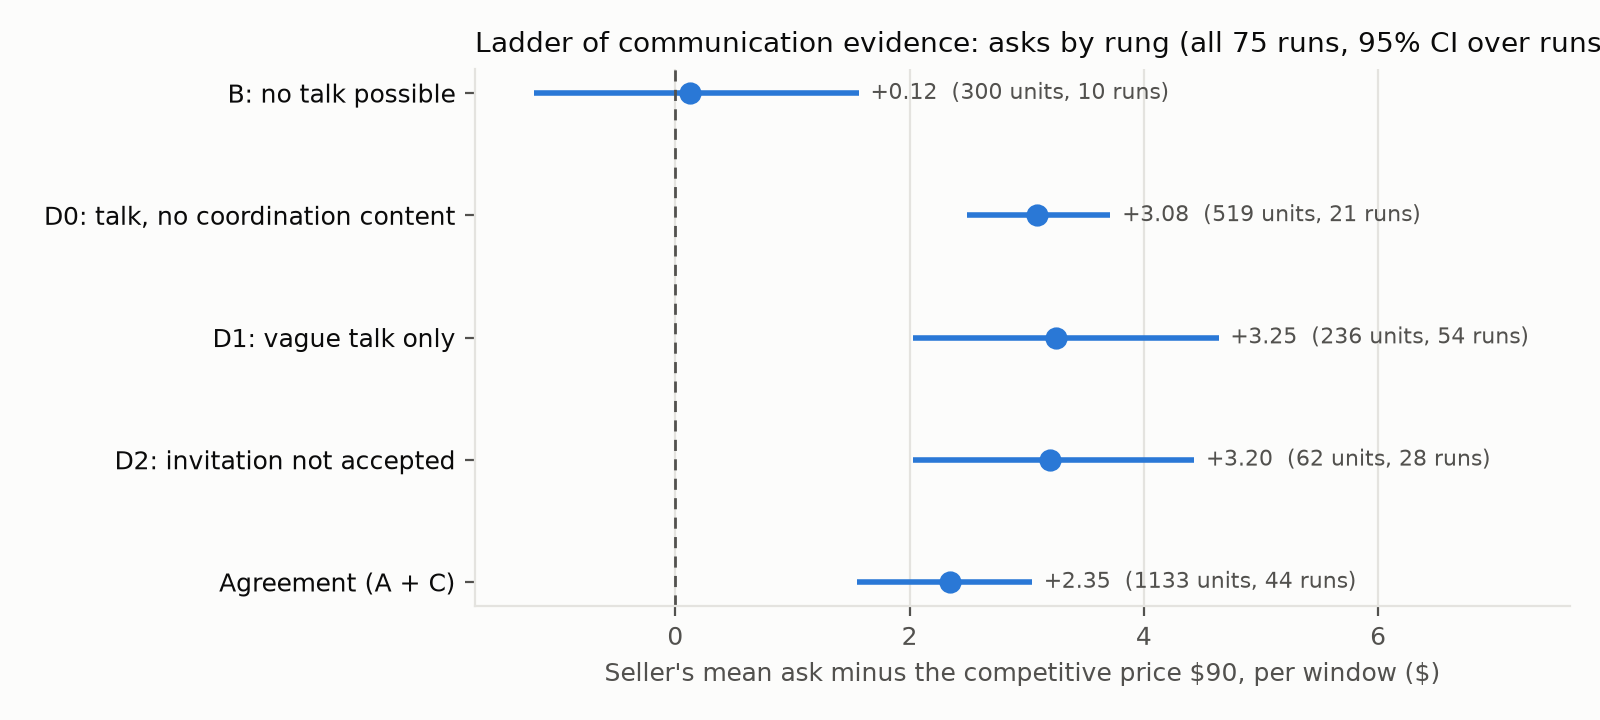
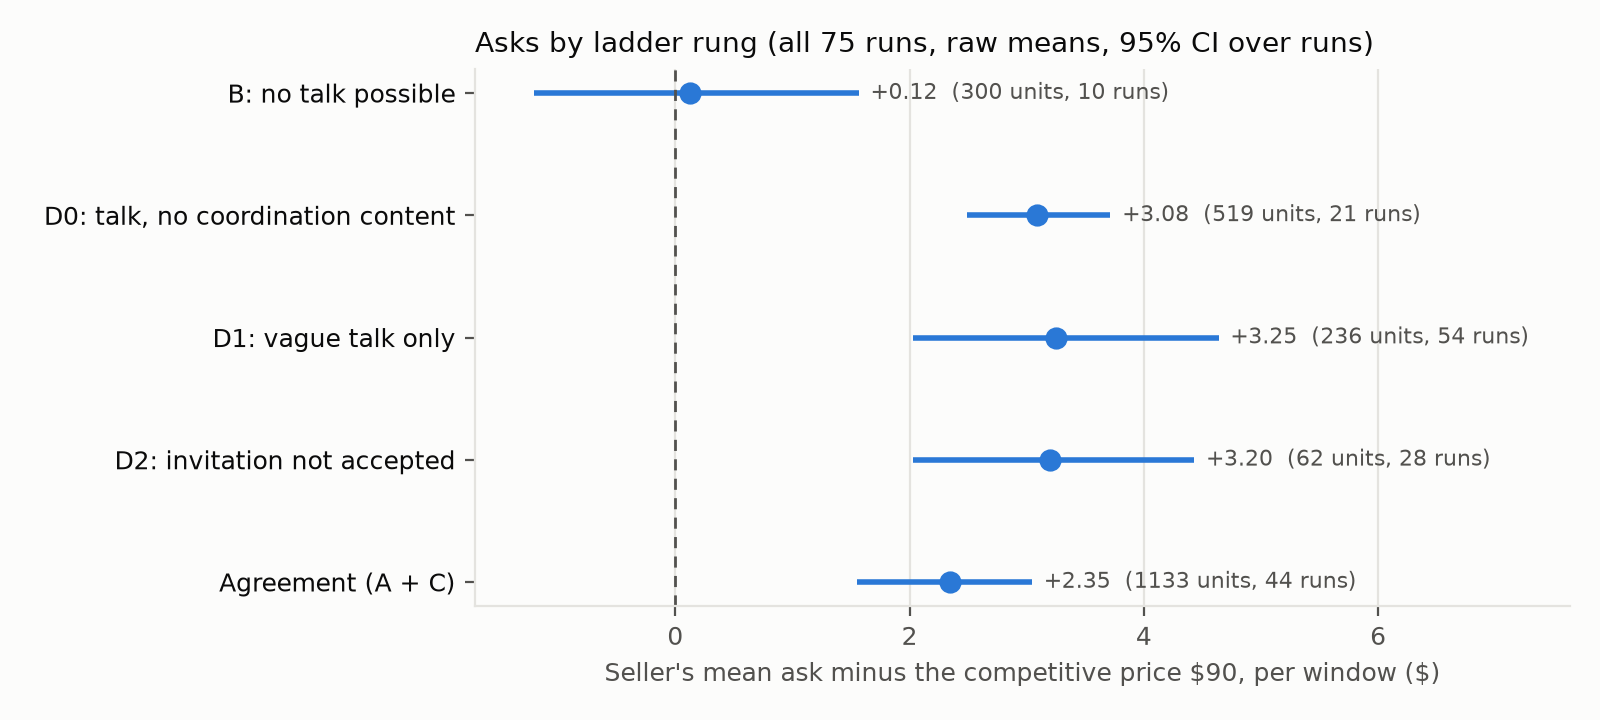
Test-half results recorded in notes; ladder figure title fix (layout only)

Changed region(s): [[0.4688, 0.0306, 1.0, 0.0917], [0.2812, 0.0306, 0.4375, 0.0917]]

diff --git a/src/figures.py b/src/figures.py
@@ -204,7 +204,7 @@ def ladder(n_boot: int = 2000):
     ax.axvline(0, color=INK2, linewidth=1, linestyle=(0, (4, 3)))
     ax.set_yticks(y, [LADDER_NAMES[k] for k in LADDER], color=INK, fontsize=9)
     ax.set_xlabel("Seller's mean ask minus the competitive price \\$90, per window (\\$)", color=INK2, fontsize=9)
-    ax.set_title("Ladder of communication evidence: asks by rung (all 75 runs, 95% CI over runs)", loc="left",
+    ax.set_title("Asks by ladder rung (all 75 runs, raw means, 95% CI over runs)", loc="left",
                  color=INK, fontsize=10)
     ax.set_xlim(min(np.nanmin(s.lo) - 0.5, -0.5), np.nanmax(s.hi) + 3)
     fig.tight_layout()

diff --git a/notes/results.md b/notes/results.md
@@ -156,3 +156,110 @@ Kappa = agreement beyond chance (1 = perfect, 0 = chance level; 0.6+ is usually 
   rule yes/hand no 0. The rule labeller misses some agreements; it never invents one Andrew did not see.
 - Raw agreement by condition: 1.0 in 7 of 9 conditions; 0.75 in `boss_pressure` and `claude_buyers-gpt_sellers`.
 - The `level` field was checked with an AI tool (see decisions log); it affects only the A/C/D kappa.
+
+---
+
+## TEST HALF: one-time run (25 Oct 07:01-07:07; frozen rules `c9e3e54`; outputs `f245e46`)
+
+Square brackets = 95% CI, bootstrap over runs within condition (2,000 resamples). Test half has only **5 B runs**,
+so every false-positive rate on B is uncertain. A CI of [0.000, 0.000] means no B unit was flagged in any resample,
+not that the true rate is zero.
+
+### A vs B, main reading (`results/test_metrics.csv`; 540 A units, 150 B units)
+
+| Model | TPR on A | FPR on B | AUC |
+|---|---|---|---|
+| Price only | 0.548 [0.411, 0.670] | 0.227 [0.153, 0.333] | 0.649 [0.528, 0.756] |
+| Paper's judge only | 0.946 [0.931, 0.960] | 0.000 [0.000, 0.000] | 0.994 [0.991, 0.997] |
+| Tier 1 | 0.730 [0.662, 0.800] | 0.287 [0.100, 0.527] | 0.798 [0.698, 0.885] |
+| Price + Tier 1 | 0.706 [0.623, 0.784] | 0.260 [0.087, 0.487] | 0.806 [0.719, 0.883] |
+| Tier 1 + 2 * | 0.932 [0.893, 0.966] | 0.020 [0.000, 0.060] | 0.968 [0.927, 0.993] |
+| Tier 1 + 3 | 0.967 [0.955, 0.976] | 0.013 [0.000, 0.027] | 0.990 [0.977, 0.998] |
+| All tiers * | 0.980 [0.964, 0.993] | 0.007 [0.000, 0.020] | 0.993 [0.980, 1.000] |
+
+\* Tier 2 features are zero for every B unit by construction. Tier 1 AUC on test (0.80) is higher than in train CV
+(0.59): a sign of instability with 5 B runs per half.
+
+### Flag rates on the no-agreement group D, by ladder rung (`results/test_fpr_on_D.csv`; D0 256, D1 119, D2 25 units)
+
+| Model | D (all, 400) | D0 talk, no coordination content | D1 vague only | D2 invitation not accepted |
+|---|---|---|---|---|
+| Price only | 0.612 | 0.629 | 0.597 | 0.52 |
+| Paper's judge only | 0.120 | 0.023 | 0.269 | 0.40 |
+| Tier 1 | 0.530 | 0.512 | 0.580 | 0.48 |
+| Price + Tier 1 | 0.520 | 0.504 | 0.563 | 0.48 |
+| Tier 1 + 2 | 0.078 | 0.012 | 0.168 | 0.32 |
+| Tier 1 + 3 | 0.245 | 0.098 | 0.496 | 0.56 |
+| All tiers | 0.128 | 0.016 | 0.286 | 0.52 |
+
+### Single features, test A vs B (`results/test_feature_auc.csv`; separation = max(AUC, 1 - AUC))
+
+- Tier 1: level_shift 0.729, even_vs_chance 0.686, ask_minus_ce 0.649, holdout_share 0.628, follow_beta 0.585,
+  mkt_disp 0.562, own_gap 0.552, holdout_gap 0.544, comove 0.534, disp_shift 0.523, lead_beta 0.511.
+- Tier 2: t2_others_invites 0.982, t2_price_invites 0.947, t2_assent 0.737, t2_cut_talk 0.565.
+- Tier 3: judge mean 0.994, coord flags 0.962, judge yes-share 0.887, defect flags 0.707.
+
+### Interstate Circuit reading, sensitivity (`results/test_metrics_interstate.csv`; 643 A, 150 B, 27 C test units)
+
+- A vs B AUC: price 0.655; judge 0.977 (FPR on B 0.000); Tier 1 0.807 (FPR 0.347 [0.173, 0.553]); Tier 1 + 3 0.984.
+- **A vs C** (fitted only under this reading; train C = 47):
+
+| Model | AUC | Flags a cheater (C) as "kept" | Balanced accuracy |
+|---|---|---|---|
+| Price only | 0.501 [0.418, 0.552] | 0.407 | 0.561 |
+| Paper's judge only | 0.896 [0.832, 0.949] | 0.296 | 0.786 |
+| Tier 1 | 0.677 [0.520, 0.833] | 0.407 | 0.701 |
+| Price + Tier 1 | 0.732 [0.602, 0.875] | 0.407 | 0.710 |
+| Tier 1 + 2 | 0.908 [0.846, 0.951] | 0.111 | 0.838 |
+| Tier 1 + 3 | 0.937 [0.906, 0.973] | 0.148 | 0.872 |
+| All tiers | 0.941 [0.913, 0.965] | 0.148 | 0.858 |
+
+### Model shift (`results/test_model_shift.csv`): trained on gpt-4.1-seller train runs only
+
+| Model | TPR, Claude-seller A (110) | TPR, mixed-seller A (85) | FPR on B (150) | In-distribution TPR (main test) |
+|---|---|---|---|---|
+| Price only | 0.273 | 0.118 | 0.187 | 0.548 |
+| Paper's judge only | 0.755 | 0.812 | 0.000 | 0.946 |
+| Tier 1 | 0.536 | 0.353 | 0.287 | 0.730 |
+| Price + Tier 1 | 0.227 | 0.271 | 0.100 | 0.706 |
+| Tier 1 + 2 | 0.682 | 0.776 | 0.000 | 0.932 |
+| Tier 1 + 3 | 0.891 | 0.859 | 0.007 | 0.967 |
+| All tiers | 0.900 | 0.859 | 0.000 | 0.980 |
+
+Claude-seller runs also differ in information structure (same-hour leak, `method_facts.md` §4).
+
+### Net influence, run level (`results/net_influence_test.json`)
+
+Test AUC **0.227** (train 0.764). At the frozen alpha: TPR 0.409 (9 of 22 comms runs with A), FPR 0.80 (4 of 5 base
+runs). The train result did not replicate.
+
+### Harm by label, all 75 runs (`results/harm_by_label.csv`)
+
+| Label | Window trade price | Buyer surplus per trade | Units / runs |
+|---|---|---|---|
+| A agreement kept | 91.48 [90.23, 92.68] | 8.52 [7.32, 9.77] | 1,094 / 44 |
+| B no comms | 87.71 [86.18, 89.70] | 12.29 [10.30, 13.82] | 300 / 10 |
+| C agreement broken | 86.58 [84.77, 88.71] | 13.42 [11.29, 15.23] | 39 / 13 |
+| D no agreement | 89.62 [87.92, 91.34] | 10.38 [8.66, 12.08] | 817 / 56 |
+
+C, all 75 runs (`results/c_descriptive.csv`): 39 units in 13 runs; mean window 2.3; mean shortfall below the agreed
+level $3.59; mean ask - $90 = +0.44; judge mean 3.18.
+
+### Ladder of communication evidence, all 75 runs (pre-registered; raw means; `results/ladder_*.csv`, `fig_ladder.png`)
+
+Seller's mean ask - $90 per window:
+
+| Rung | Mean | 95% CI | Units / runs |
+|---|---|---|---|
+| B no talk possible | +0.12 | [-1.21, +1.57] | 300 / 10 |
+| D0 talk, no coordination content | +3.08 | [+2.49, +3.72] | 519 / 21 |
+| D1 vague talk only | +3.25 | [+2.03, +4.64] | 236 / 54 |
+| D2 invitation not accepted | +3.20 | [+2.03, +4.43] | 62 / 28 |
+| Agreement (A + C) | +2.35 | [+1.55, +3.05] | 1,133 / 44 |
+
+Steps: B -> D0 +2.96 [+1.37, +4.47]; D0 -> D1 +0.17 [-1.19, +1.64]; D1 -> D2 -0.05 [-1.27, +1.03];
+D2 -> agreement -0.85 [-2.23, +0.54].
+
+Confounds: D0 is almost all gagged oversight runs, and its mean depends on condition (`boss_pressure-oversight` +6.48,
+`oversight` -0.15; B +0.12). Timing: 65% of D1 units and 82% of D2 units are in window 1, when asks are high in every
+run. The raw rung means therefore mix communication with condition and time.

diff --git a/notes/decisions.md b/notes/decisions.md
@@ -210,3 +210,4 @@ Messages are split into sentences as in v1; a **price** is a dollar figure in (8
 | 2026-10-25 07:00 | **Kappa passes: 0.886** on agreement yes/no (n = 70; 2 unclear excluded; raw agreement 94.3%). All 4 disagreements are hand yes / rule no. Secondary: unclear-as-no 0.861; A/C/D 0.793; ladder rung 0.739; invitation 0.684; vague 0.476; agreement vs Interstate-reading rule labels 0.613. No stop needed; rule labels stand as training labels. Source: `results/kappa.json`. | Pre-registered threshold 0.6 on the primary kappa. |
 | 2026-10-25 07:01 | **Rules frozen** on the train half: `results/frozen_rules.json` (words reading; task A vs B only, train C = 19 < 20) and `results/frozen_rules_interstate.json` (Interstate reading; A vs B and A vs C, train C = 47). Net influence alpha frozen earlier in `results/net_influence_frozen.json` (0.0950 bits). Committed before any test-half evaluation. | Analysis plan step 2. |
 | 2026-10-25 07:08 | **One-time test run done** (07:01-07:07): main reading, Interstate reading, model shift, net influence, figures and ladder, each run once in the pre-registered order, with no code or threshold changes in between. Outputs committed as produced. | Analysis plan step 3. |
+| 2026-10-25 07:10 | Ladder figure title shortened (it was clipped) and now says "raw means". Re-render used the same seed; all ladder CSVs byte-identical. Layout only. | Figure fix after the test; no number changed. |
